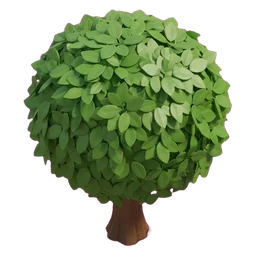
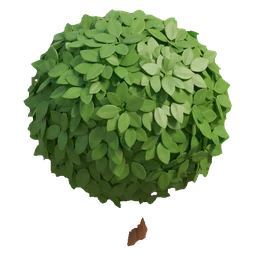
Paint city decor set (trees, rocks, fence, lamp, sandbags, crates, water tower, barrels, flag, pond, bush); ingest shadow cut
Claude-Session: https://claude.ai/code/session_01RrDtyUZUzqu6rAp9dA6JB4

diff --git a/tools/ingest.py b/tools/ingest.py
@@ -11,7 +11,7 @@ Needs Pillow (python3 -m pip install pillow). The originals are not kept in the 
 import json, os, re, sys
 from collections import deque
 try:
-    from PIL import Image, ImageChops, ImageFilter
+    from PIL import Image, ImageChops, ImageFilter, ImageDraw
 except ImportError:
     sys.exit('Pillow is missing: python3 -m pip install pillow')
 
@@ -96,6 +96,22 @@ def drop_shadow(im, thr):
     a = ImageChops.darker(im.getchannel('A'), lum.filter(ImageFilter.MaxFilter(3)))
     out = im.copy(); out.putalpha(a); return out
 
+def drop_grey_shadow(im, warm=False):
+    """Floor shadows are dull grey-brown (low saturation, not green-dominant, not bark). Only the part connected to the
+    background is cut, so dull pixels inside the art are kept."""
+    r, g, b = im.convert('RGB').split(); mx = ImageChops.lighter(ImageChops.lighter(r, g), b); mn = ImageChops.darker(ImageChops.darker(r, g), b)
+    m = ImageChops.subtract(mx, mn).point(lambda v: 255 if v < 48 else 0)
+    if warm:   # light bodies: the shadow is a dull warm brown (red above blue by a little), grey metal has red equal to blue
+        m = ImageChops.multiply(m, ImageChops.subtract(r, b).point(lambda v: 255 if 18 <= v <= 60 else 0))
+    else:
+        m = ImageChops.multiply(m, ImageChops.subtract(g, r).point(lambda v: 255 if v <= 6 else 0))
+        m = ImageChops.multiply(m, ImageChops.subtract(g, b).point(lambda v: 255 if v < 26 else 0))
+    m = ImageChops.multiply(m, im.convert('L').point(lambda v: 255 if v < (134 if warm else 165) else 0))
+    a = im.getchannel('A'); free = ImageChops.lighter(m, a.point(lambda v: 255 if v < 20 else 0))
+    ImageDraw.floodfill(free, (0, 0), 128, thresh=0)
+    sh = free.point(lambda v: 255 if v == 128 else 0).filter(ImageFilter.MaxFilter(5))
+    out = im.copy(); out.putalpha(ImageChops.subtract(a, sh)); return out
+
 def has_alpha(im):
     return im.mode in ('RGBA', 'LA') and im.getchannel('A').getextrema()[0] < 250
 
@@ -113,6 +129,8 @@ def process(path):
         im = im.convert('RGB')
         if it['size'].startswith('1:1') and im.width != im.height:  # not square: centre-crop so it does not stretch
             n = min(im.size); l, t = (im.width - n) // 2, (im.height - n) // 2; im = im.crop((l, t, l + n, t + n)); note = 'centre-cropped to square'
+    if (k.startswith('city_deco_tree') or k == 'city_deco_bush') and im.mode == 'RGBA': im = drop_grey_shadow(im); note += ', floor shadow cut'
+    elif k in ('city_deco_barrel', 'city_deco_flag') and im.mode == 'RGBA': im = drop_grey_shadow(im, True); note += ', floor shadow cut'
     if k in SHADOW and im.mode == 'RGBA': im = drop_shadow(im, SHADOW[k]); note += ', floor shadow cut'
     if it['transparent'] and k.startswith('city_ground'): im = trim(im)   # ground blobs are wide: keep their own aspect, the game stretches them over the island
     elif it['transparent'] and it['size'].startswith('1:1'): im = square(im)
